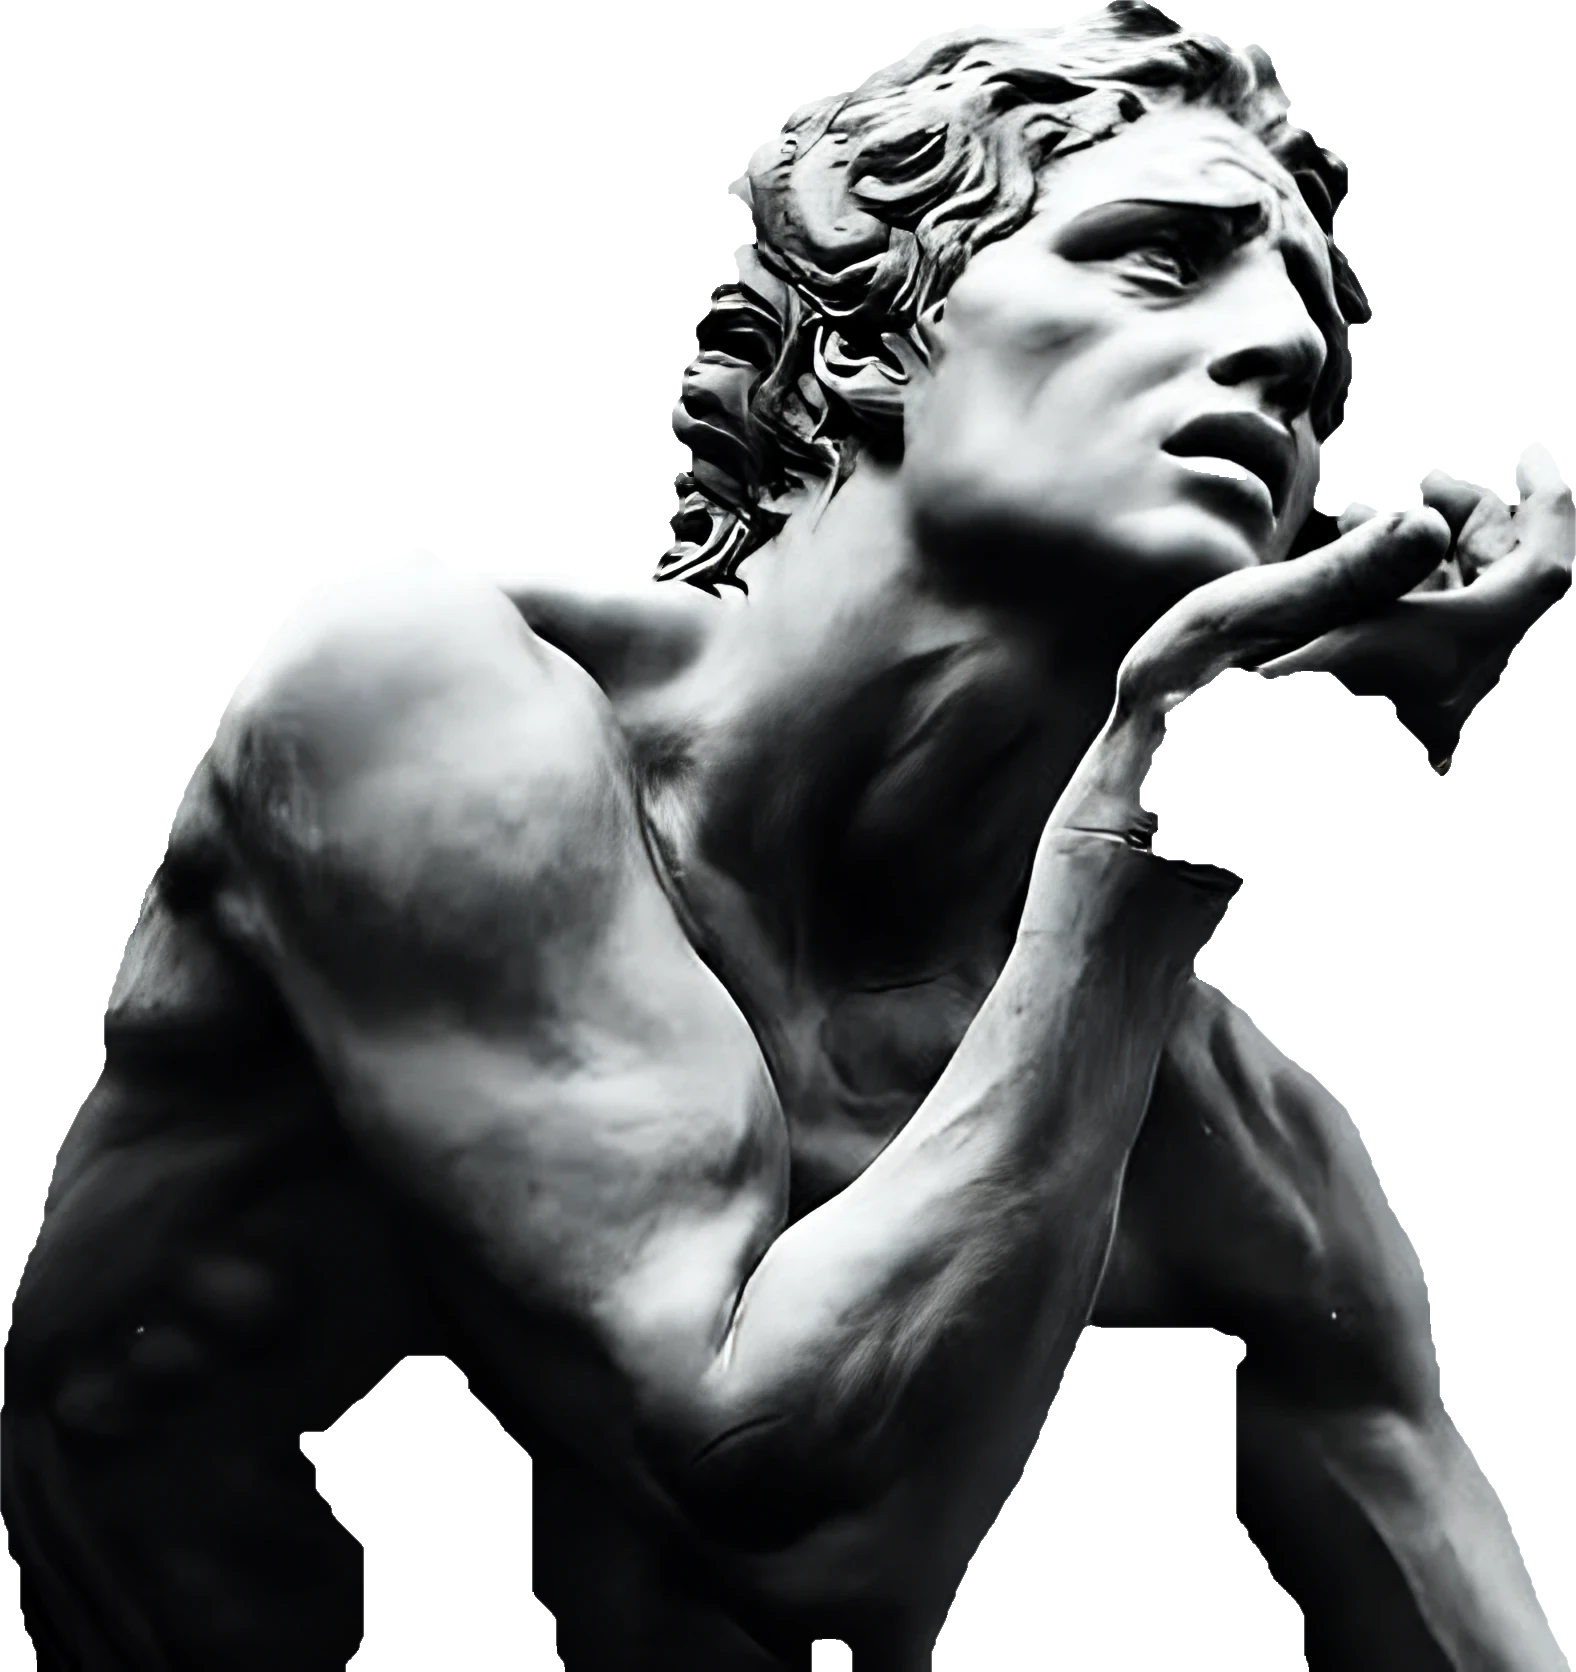
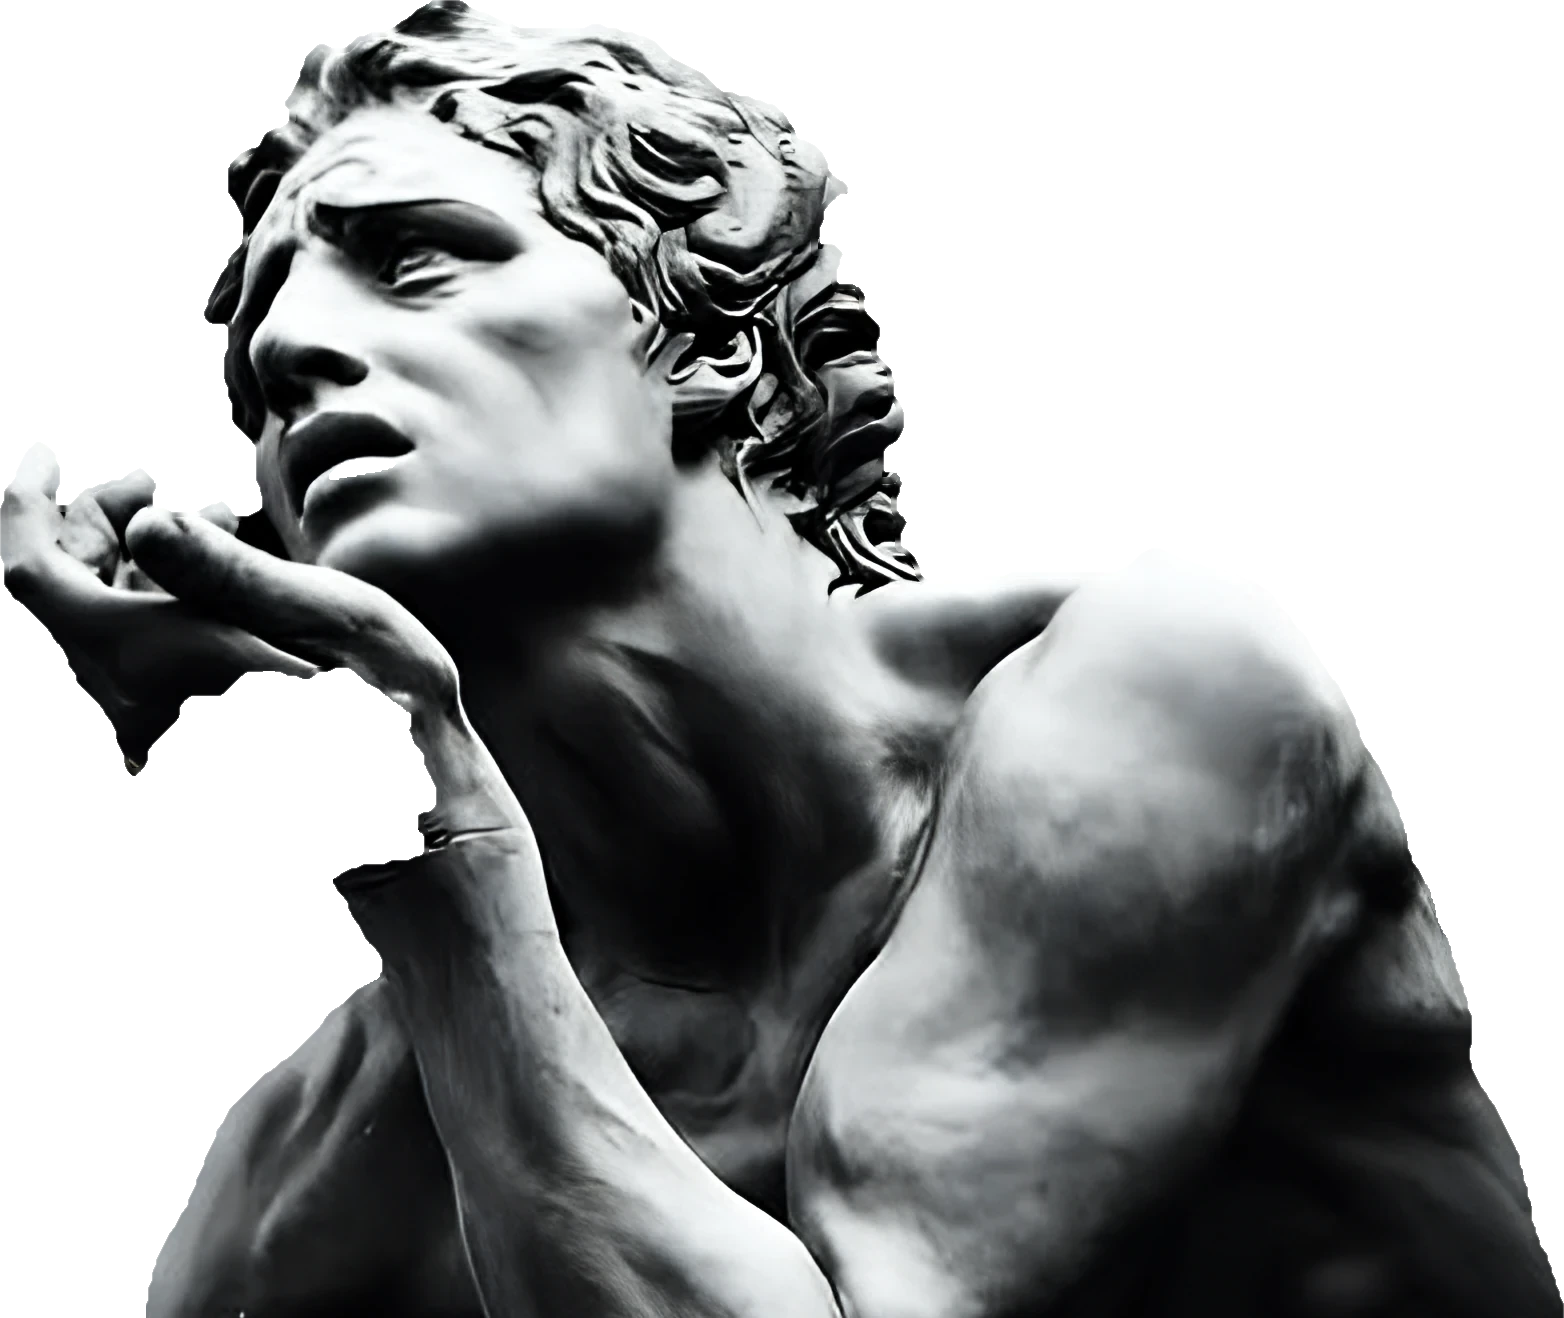
Studio: neue Statue (Feldherr), Klage unten sauber, König vs. Untertan gemischt, kaputte Ausschnitte ersetzt
- Feldherr neu freigestellt (Haare ohne roten Rand), Klage mit gerader Unterkante statt Löchern
- König: Könige, Feldherr, Spartaner, Hoplit gemischt; Untertan: Bauer oder weinende Statue
- Figuren mit seitlicher Schnittkante stehen immer bündig am Bildrand
- 13 abgeschnittene/komische Ausschnitte entfernt (u. a. Blaubeeren, Kirschen, Hähnchen, Ananas-Schale, Honigwabe), 8 neue saubere

Claude-Session: https://claude.ai/code/session_01MyGo4eGJfg5ubj31JdYAUS

diff --git a/studio/index.html b/studio/index.html
@@ -240,7 +240,7 @@ select.big { font: inherit; font-size: 15px; color: var(--fg); background: var(-
 </div>
 
 <script>
-const BUILTIN_FIGS = [{"id": "spartaner", "name": "Spartaner", "mood": "strong", "anchor": "fill", "cut": 0.46, "tone": "dark", "src": "fig/spartaner.webp", "thumb": "fig/spartaner_t.webp", "physique": true, "kind": "statue", "light": false}, {"id": "marmor", "name": "Marmor", "mood": "strong", "anchor": "center", "cut": 1.0, "tone": "light", "src": "fig/marmor.webp", "thumb": "fig/marmor_t.webp", "physique": true, "kind": "statue", "light": true}, {"id": "ruecken", "name": "Rücken", "mood": "strong", "anchor": "center", "cut": 1.0, "tone": "dark", "src": "fig/ruecken.webp", "thumb": "fig/ruecken_t.webp", "physique": true, "kind": "statue", "light": true}, {"id": "held", "name": "Held", "mood": "strong", "anchor": "center", "cut": 1.0, "tone": "light", "src": "fig/held.webp", "thumb": "fig/held_t.webp", "physique": true, "kind": "statue", "light": true}, {"id": "hoplit", "name": "Hoplit", "mood": "strong", "anchor": "center", "cut": 1.0, "tone": "light", "src": "fig/hoplit.webp", "thumb": "fig/hoplit_t.webp", "physique": true, "kind": "statue", "light": true}, {"id": "bart", "name": "Bart", "mood": "strong", "anchor": "center", "cut": 1.0, "tone": "dark", "src": "fig/bart.webp", "thumb": "fig/bart_t.webp", "physique": true, "kind": "statue", "light": true}, {"id": "chrom", "name": "Chrom", "mood": "strong", "anchor": "fill", "cut": 0.653, "tone": "light", "src": "fig/chrom.webp", "thumb": "fig/chrom_t.webp", "kind": "statue", "light": false}, {"id": "orakel", "name": "Orakel", "mood": "strong", "anchor": "fill", "cut": 0.694, "tone": "light", "src": "fig/orakel.webp", "thumb": "fig/orakel_t.webp", "kind": "statue", "light": true}, {"id": "fluegel", "name": "Flügel", "mood": "strong", "anchor": "fill", "cut": 0.5, "tone": "dark", "src": "fig/fluegel.webp", "thumb": "fig/fluegel_t.webp", "physique": true, "fillW": true, "kind": "statue", "light": false}, {"id": "parkplatz", "name": "Athlet", "mood": "strong", "anchor": "center", "cut": 1.0, "tone": "light", "src": "fig/parkplatz.webp", "thumb": "fig/parkplatz_t.webp", "physique": true, "kind": "statue", "light": true}, {"id": "gym", "name": "Gym", "mood": "strong", "anchor": "center", "cut": 1.0, "tone": "light", "src": "fig/gym.webp", "thumb": "fig/gym_t.webp", "physique": true, "kind": "statue", "light": true}, {"id": "schatten", "name": "Schatten", "mood": "strong", "anchor": "center", "cut": 1.0, "tone": "dark", "src": "fig/schatten.webp", "thumb": "fig/schatten_t.webp", "physique": true, "kind": "statue", "light": true}, {"id": "david", "name": "David", "mood": "strong", "anchor": "center", "cut": 1.0, "tone": "light", "src": "fig/david.webp", "thumb": "fig/david_t.webp", "physique": true, "kind": "statue", "light": true}, {"id": "yeschad", "name": "Yes Chad", "mood": "strong", "anchor": "center", "cut": 1.0, "tone": "light", "src": "fig/yeschad.webp", "thumb": "fig/yeschad_t.webp", "kind": "drawing", "light": true}, {"id": "sie", "name": "Sie", "mood": "strong", "anchor": "center", "cut": 1.0, "tone": "light", "src": "fig/sie.webp", "thumb": "fig/sie_t.webp", "kind": "drawing", "light": true}, {"id": "manga", "name": "Manga", "mood": "strong", "anchor": "center", "cut": 1.0, "tone": "light", "src": "fig/manga.webp", "thumb": "fig/manga_t.webp", "kind": "drawing", "light": true}, {"id": "klage", "name": "Klage", "mood": "sad", "anchor": "center", "cut": 1.0, "tone": "light", "src": "fig/klage.webp", "thumb": "fig/klage_t.webp", "kind": "statue", "light": true}, {"id": "heulen", "name": "Heulen", "mood": "sad", "anchor": "center", "cut": 1.0, "tone": "light", "src": "fig/heulen.webp", "thumb": "fig/heulen_t.webp", "kind": "drawing", "light": true}, {"id": "faust", "name": "Faust", "mood": "sad", "anchor": "center", "cut": 1.0, "tone": "light", "src": "fig/faust.webp", "thumb": "fig/faust_t.webp", "kind": "drawing", "light": true}, {"id": "muede", "name": "Müde", "mood": "sad", "anchor": "center", "cut": 1.0, "tone": "light", "src": "fig/muede.webp", "thumb": "fig/muede_t.webp", "kind": "drawing", "light": true}, {"id": "koenig", "name": "König", "mood": "strong", "anchor": "center", "cut": 1.0, "tone": "light", "src": "fig/koenig.webp", "thumb": "fig/koenig_t.webp", "kind": "royal", "light": true}, {"id": "koenig2", "name": "König (Maske)", "mood": "strong", "anchor": "center", "cut": 1.0, "tone": "dark", "src": "fig/koenig2.webp", "thumb": "fig/koenig2_t.webp", "kind": "royal", "light": true}, {"id": "bauer", "name": "Bauer", "mood": "sad", "anchor": "center", "cut": 1.0, "tone": "light", "src": "fig/bauer.webp", "thumb": "fig/bauer_t.webp", "kind": "royal", "light": true}];
+const BUILTIN_FIGS = [{"id": "spartaner", "name": "Spartaner", "mood": "strong", "anchor": "fill", "cut": 0.46, "tone": "dark", "src": "fig/spartaner.webp", "thumb": "fig/spartaner_t.webp", "physique": true, "kind": "statue", "light": false, "royalOk": true}, {"id": "marmor", "name": "Marmor", "mood": "strong", "anchor": "center", "cut": 1.0, "tone": "light", "src": "fig/marmor.webp", "thumb": "fig/marmor_t.webp", "physique": true, "kind": "statue", "light": true}, {"id": "ruecken", "name": "Rücken", "mood": "strong", "anchor": "center", "cut": 1.0, "tone": "dark", "src": "fig/ruecken.webp", "thumb": "fig/ruecken_t.webp", "physique": true, "kind": "statue", "light": true}, {"id": "held", "name": "Held", "mood": "strong", "anchor": "center", "cut": 1.0, "tone": "light", "src": "fig/held.webp", "thumb": "fig/held_t.webp", "physique": true, "kind": "statue", "light": true}, {"id": "hoplit", "name": "Hoplit", "mood": "strong", "anchor": "center", "cut": 1.0, "tone": "light", "src": "fig/hoplit.webp", "thumb": "fig/hoplit_t.webp", "physique": true, "kind": "statue", "light": true, "royalOk": true}, {"id": "bart", "name": "Bart", "mood": "strong", "anchor": "center", "cut": 1.0, "tone": "dark", "src": "fig/bart.webp", "thumb": "fig/bart_t.webp", "physique": true, "kind": "statue", "light": true}, {"id": "chrom", "name": "Chrom", "mood": "strong", "anchor": "fill", "cut": 0.653, "tone": "light", "src": "fig/chrom.webp", "thumb": "fig/chrom_t.webp", "kind": "statue", "light": false}, {"id": "orakel", "name": "Orakel", "mood": "strong", "anchor": "fill", "cut": 0.694, "tone": "light", "src": "fig/orakel.webp", "thumb": "fig/orakel_t.webp", "kind": "statue", "light": true}, {"id": "fluegel", "name": "Flügel", "mood": "strong", "anchor": "fill", "cut": 0.5, "tone": "dark", "src": "fig/fluegel.webp", "thumb": "fig/fluegel_t.webp", "physique": true, "fillW": true, "kind": "statue", "light": false}, {"id": "parkplatz", "name": "Athlet", "mood": "strong", "anchor": "center", "cut": 1.0, "tone": "light", "src": "fig/parkplatz.webp", "thumb": "fig/parkplatz_t.webp", "physique": true, "kind": "statue", "light": true}, {"id": "gym", "name": "Gym", "mood": "strong", "anchor": "center", "cut": 1.0, "tone": "light", "src": "fig/gym.webp", "thumb": "fig/gym_t.webp", "physique": true, "kind": "statue", "light": true}, {"id": "schatten", "name": "Schatten", "mood": "strong", "anchor": "center", "cut": 1.0, "tone": "dark", "src": "fig/schatten.webp", "thumb": "fig/schatten_t.webp", "physique": true, "kind": "statue", "light": true}, {"id": "david", "name": "David", "mood": "strong", "anchor": "center", "cut": 1.0, "tone": "light", "src": "fig/david.webp", "thumb": "fig/david_t.webp", "physique": true, "kind": "statue", "light": true}, {"id": "yeschad", "name": "Yes Chad", "mood": "strong", "anchor": "center", "cut": 1.0, "tone": "light", "src": "fig/yeschad.webp", "thumb": "fig/yeschad_t.webp", "kind": "drawing", "light": true}, {"id": "sie", "name": "Sie", "mood": "strong", "anchor": "center", "cut": 1.0, "tone": "light", "src": "fig/sie.webp", "thumb": "fig/sie_t.webp", "kind": "drawing", "light": true}, {"id": "manga", "name": "Manga", "mood": "strong", "anchor": "center", "cut": 1.0, "tone": "light", "src": "fig/manga.webp", "thumb": "fig/manga_t.webp", "kind": "drawing", "light": true}, {"id": "klage", "name": "Klage", "mood": "sad", "anchor": "fill", "cut": 1.0, "fillW": true, "edge": "left", "royalOk": true, "tone": "light", "src": "fig/klage.webp", "thumb": "fig/klage_t.webp", "kind": "statue", "light": true}, {"id": "heulen", "name": "Heulen", "mood": "sad", "anchor": "center", "cut": 1.0, "tone": "light", "src": "fig/heulen.webp", "thumb": "fig/heulen_t.webp", "kind": "drawing", "light": true}, {"id": "faust", "name": "Faust", "mood": "sad", "anchor": "center", "cut": 1.0, "tone": "light", "src": "fig/faust.webp", "thumb": "fig/faust_t.webp", "kind": "drawing", "light": true}, {"id": "muede", "name": "Müde", "mood": "sad", "anchor": "center", "cut": 1.0, "tone": "light", "src": "fig/muede.webp", "thumb": "fig/muede_t.webp", "kind": "drawing", "light": true}, {"id": "koenig", "name": "König", "mood": "strong", "anchor": "center", "cut": 1.0, "tone": "light", "src": "fig/koenig.webp", "thumb": "fig/koenig_t.webp", "kind": "royal", "light": true}, {"id": "koenig2", "name": "König (Maske)", "mood": "strong", "anchor": "center", "cut": 1.0, "tone": "dark", "src": "fig/koenig2.webp", "thumb": "fig/koenig2_t.webp", "kind": "royal", "light": true}, {"id": "feldherr", "name": "Feldherr", "mood": "strong", "anchor": "center", "cut": 1.0, "tone": "dark", "src": "fig/feldherr.webp", "thumb": "fig/feldherr_t.webp", "kind": "royal", "light": true, "edge": "left"}, {"id": "bauer", "name": "Bauer", "mood": "sad", "anchor": "center", "cut": 1.0, "tone": "light", "src": "fig/bauer.webp", "thumb": "fig/bauer_t.webp", "kind": "royal", "light": true}];
 
 /* ---------- Lebensmittel ---------- */
 const F = (id, emoji, color, en, de, tags) => ({ id, emoji, color, en, de, tags });
@@ -1836,14 +1836,16 @@ function planPost(series, n, lang) {
   const specs = planSlides(series, n, lang);
   const duel = specs.some(s => s.mood === 'duel');
   const needStrong = specs.some(s => s.mood === 'strong' || s.mood === 'duel'), needSad = specs.some(s => s.mood === 'sad' || s.mood === 'duel');
+  const kingPlain = series === 'king' && specs.some(s => s.variant === 'plain');   // schlichte Variante: Figur steht mittig, also keine mit Schnittkante an der Seite
   const kind = series === 'mog' || series === 'love' ? 'drawing'
-    : series === 'king' && figures.some(f => kindOf(f) === 'royal' && f.mood === 'sad') ? 'royal'   // König vs. Untertan: König und Bauer
-    : series === 'king' && figures.some(f => kindOf(f) === 'statue' && f.mood === 'sad') ? 'statue' : pickKind(needStrong, needSad);   // König/Untertan: klassische Statuen
+    : series === 'king' ? null   // König vs. Untertan: eigene gemischte Auswahl (siehe only)
+    : pickKind(needStrong, needSad);
   // heller Hintergrund: nur sauber freigestellte Figuren; Mog: männliche Zeichnungen
   const only = series === 'love' ? (f => (f.mood === 'sad' && (f.id !== 'muede' || !f.builtin)) || ['yeschad', 'manga'].includes(f.id) || !f.builtin)
-    : series === 'mog' ? (f => f.mood === 'sad' || ['manga', 'yeschad'].includes(f.id) || !f.builtin) : ['king'].includes(series) ? (f => f.light !== false && !['parkplatz', 'gym'].includes(f.id)) : null;
-  const fig = { strong: needStrong && kind ? nextFigure('strong', duel || series === 'king' || specs.some(s => s.big), kind, only) : null,
-    sad: needSad && kind ? nextFigure('sad', false, kind, only) : null };
+    : series === 'mog' ? (f => f.mood === 'sad' || ['manga', 'yeschad'].includes(f.id) || !f.builtin) : ['king'].includes(series) ? (f => (kindOf(f) === 'royal' || f.royalOk) && (!kingPlain || !f.edge))
+    : ['dad', 'diet'].includes(series) ? (f => !f.edge) : null;   // Figur schwebt mittig: keine mit seitlicher Schnittkante
+  const fig = { strong: needStrong && (kind || series === 'king') ? nextFigure('strong', duel || series === 'king' || specs.some(s => s.big), kind, only) : null,
+    sad: needSad && (kind || series === 'king') ? nextFigure('sad', false, kind, only) : null };
   if (series === 'love' && fig.sad) fig.sad2 = nextFigure('sad', false, kind, f => only(f) && f !== fig.sad && f.id !== 'muede') || fig.sad;
   const base = makeStyle();  // gleiche Statuen-Größe/-Spiegelung im ganzen Video
   const used = new Set();
